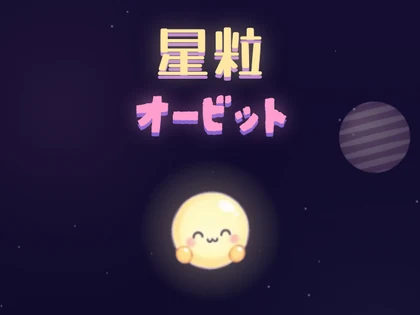
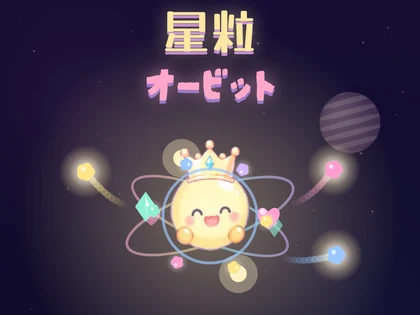
星粒オービットのサムネイルと説明文を差し替え
Claude-Session: https://claude.ai/code/session_01NdcNUUMCuzuTpJU1KvF1kA

diff --git a/index.html b/index.html
@@ -97,7 +97,7 @@
   // 新しいゲームはこの配列の先頭に1行足すだけ。folder はこの index.html から見たフォルダ名。
   // 大きく更新したら updated に日付を入れると、UPDATE_DAYS 日のあいだ「Update!」が付く。
   const GAMES = [
-    { folder: "hoshitsubu", title: "星粒オービット", date: "2026-10-17", thumb: "thumbs/hoshitsubu.webp", emoji: "🌟", desc: "敵の弾を引き寄せて衛星にし、指を離すと流星群になって飛んでいくシューティング。強化カードで星を育てて、宇宙の果てをめざそう。" },
+    { folder: "hoshitsubu", title: "星粒オービット", date: "2026-10-17", thumb: "thumbs/hoshitsubu.webp", emoji: "🌟", desc: "敵の弾を引き寄せて衛星にし、流星群としてときはなつ！ななしの星を育てて宇宙の果てを目指すシューティング🌠" },
     { folder: "hanabi", title: "夜空満開はなびチェイン", date: "2026-10-13", updated: "2026-10-16", thumb: "thumbs/hanabi.webp", emoji: "🎆", desc: "火をつけ忘れて打ち上げた花火玉に、1発の花火で火をつけて回る連鎖パズル。ぜんぶ咲かせて、ひと晩の花火大会を大団円へ。" },
     { folder: "monster-merge", title: "まるもんえぼりゅーしょん", date: "2026-10-12", thumb: "thumbs/monster-merge.webp", emoji: "🐉", desc: "同じモンスターがくっつくと進化する落ちものパズル。のろいの岩を砕きながら、キングドラゴンを目指そう。" },
   ];
